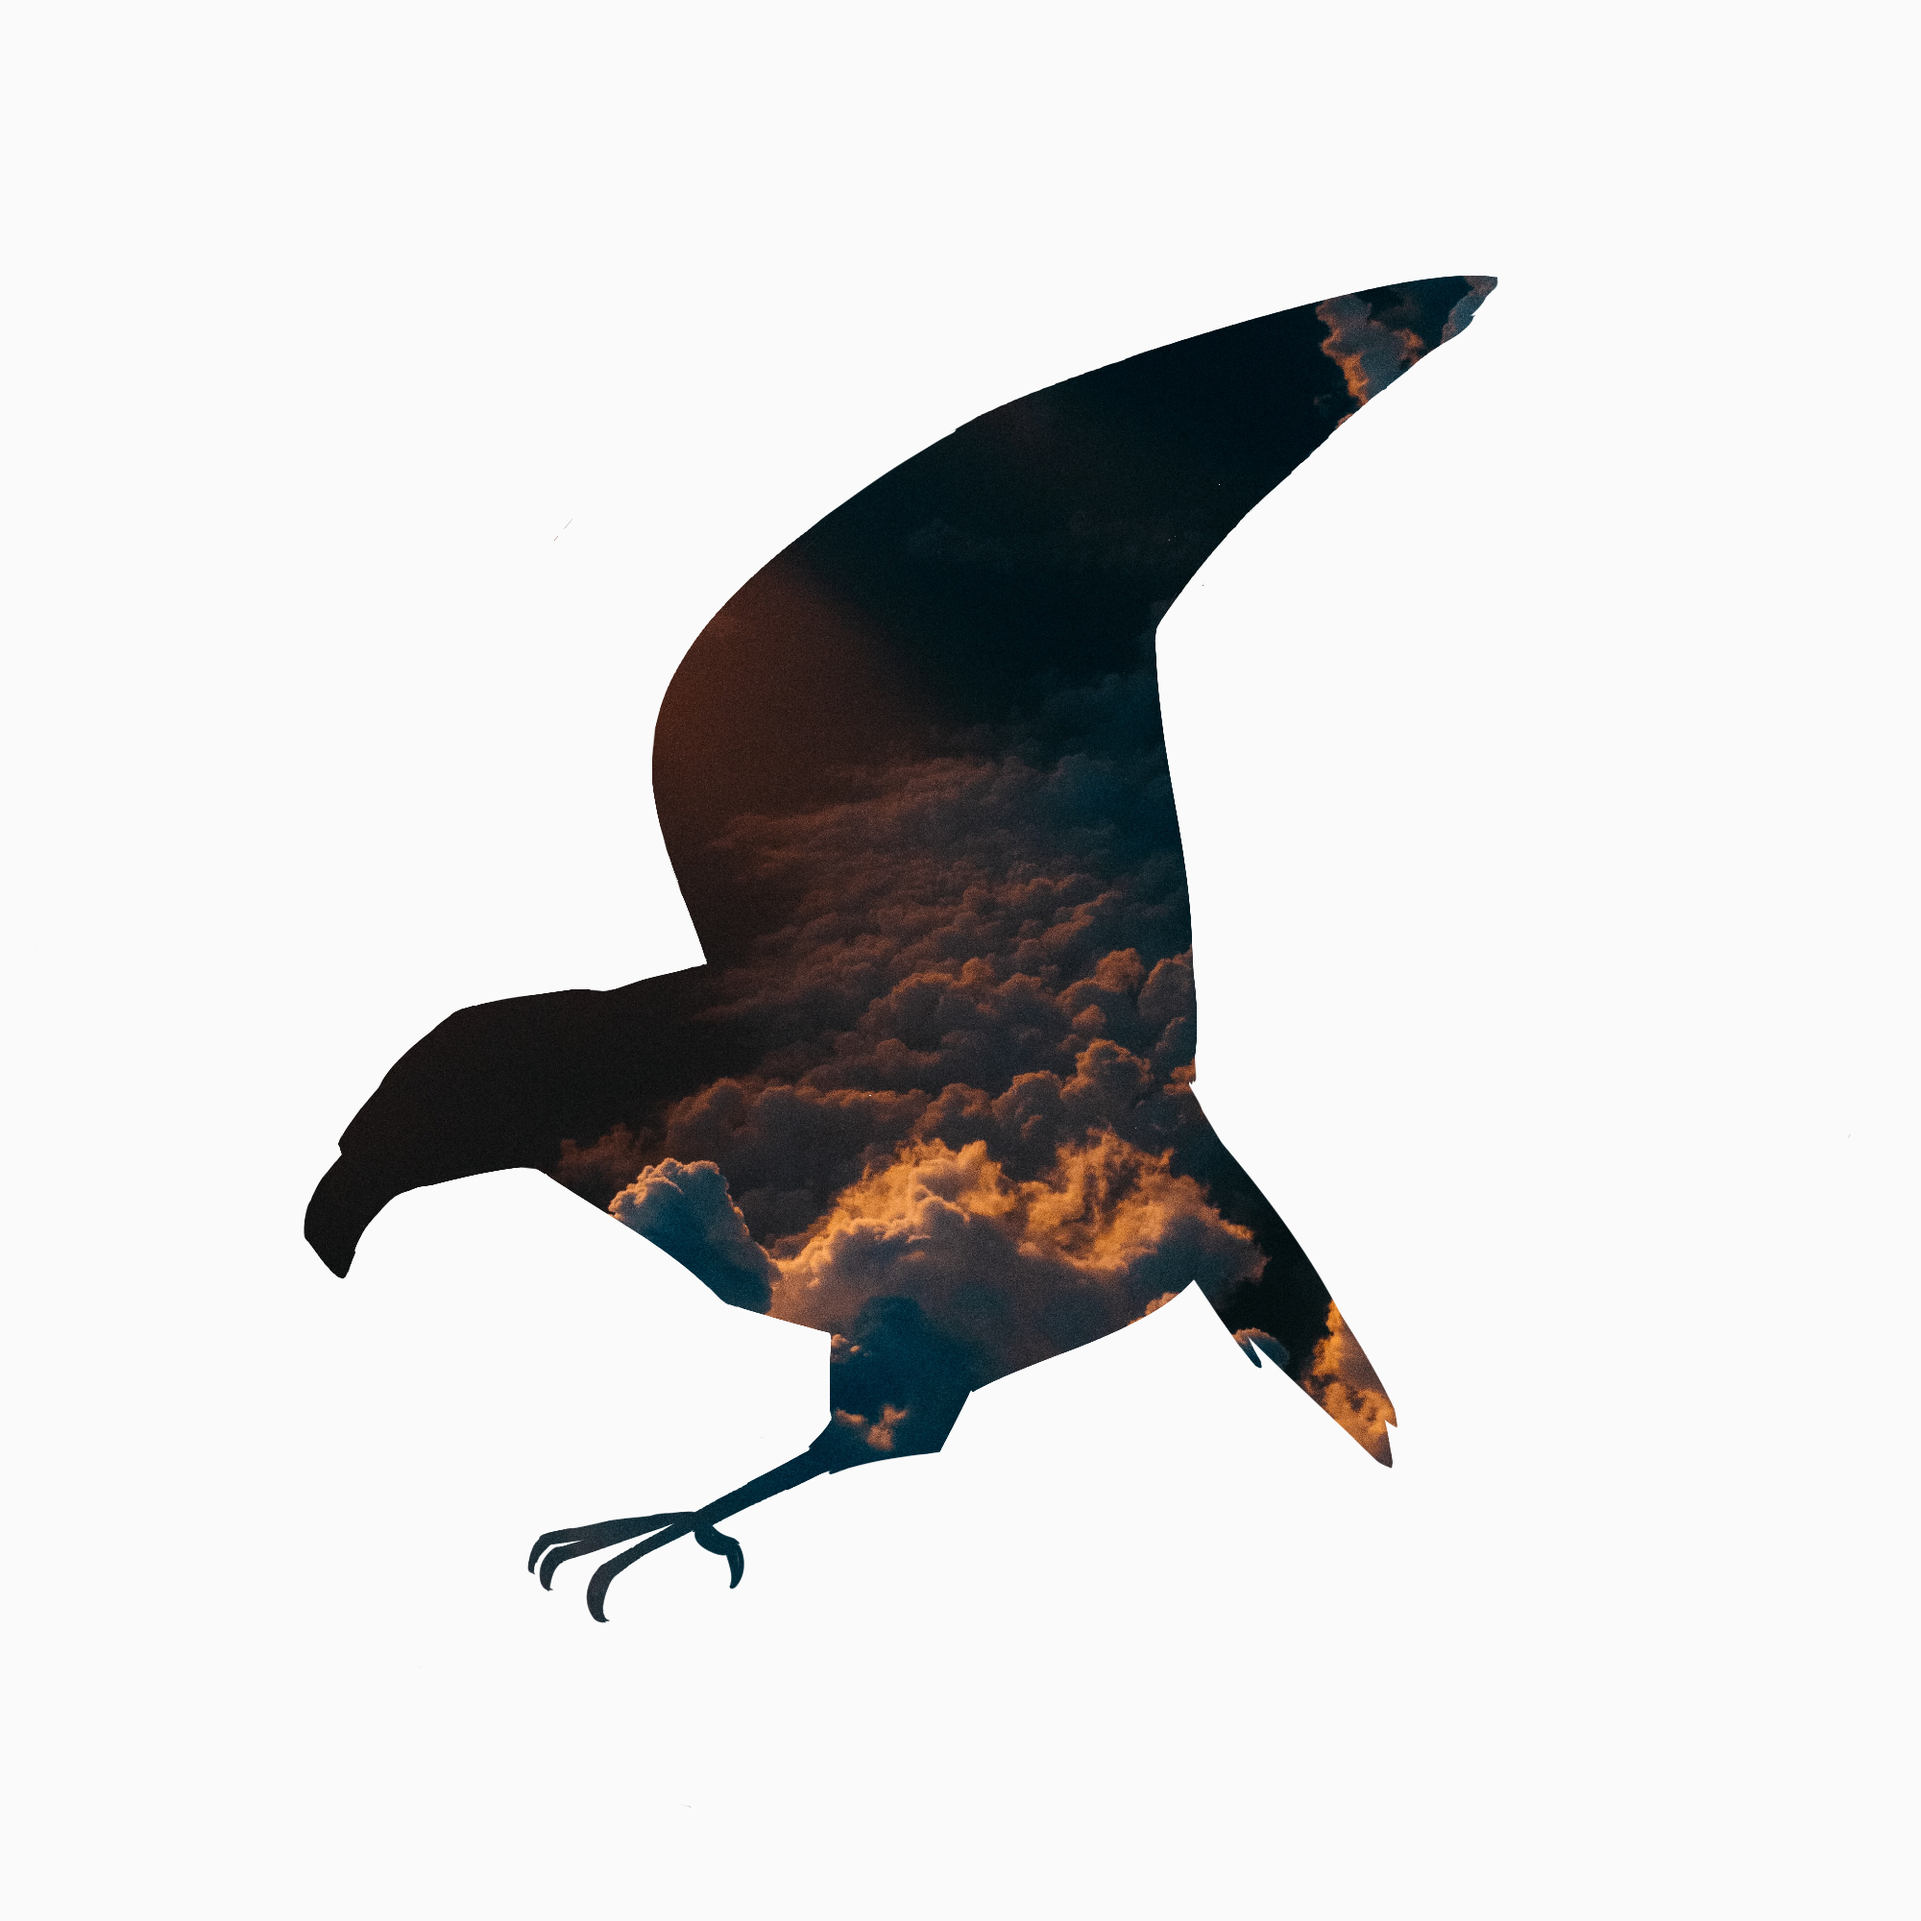
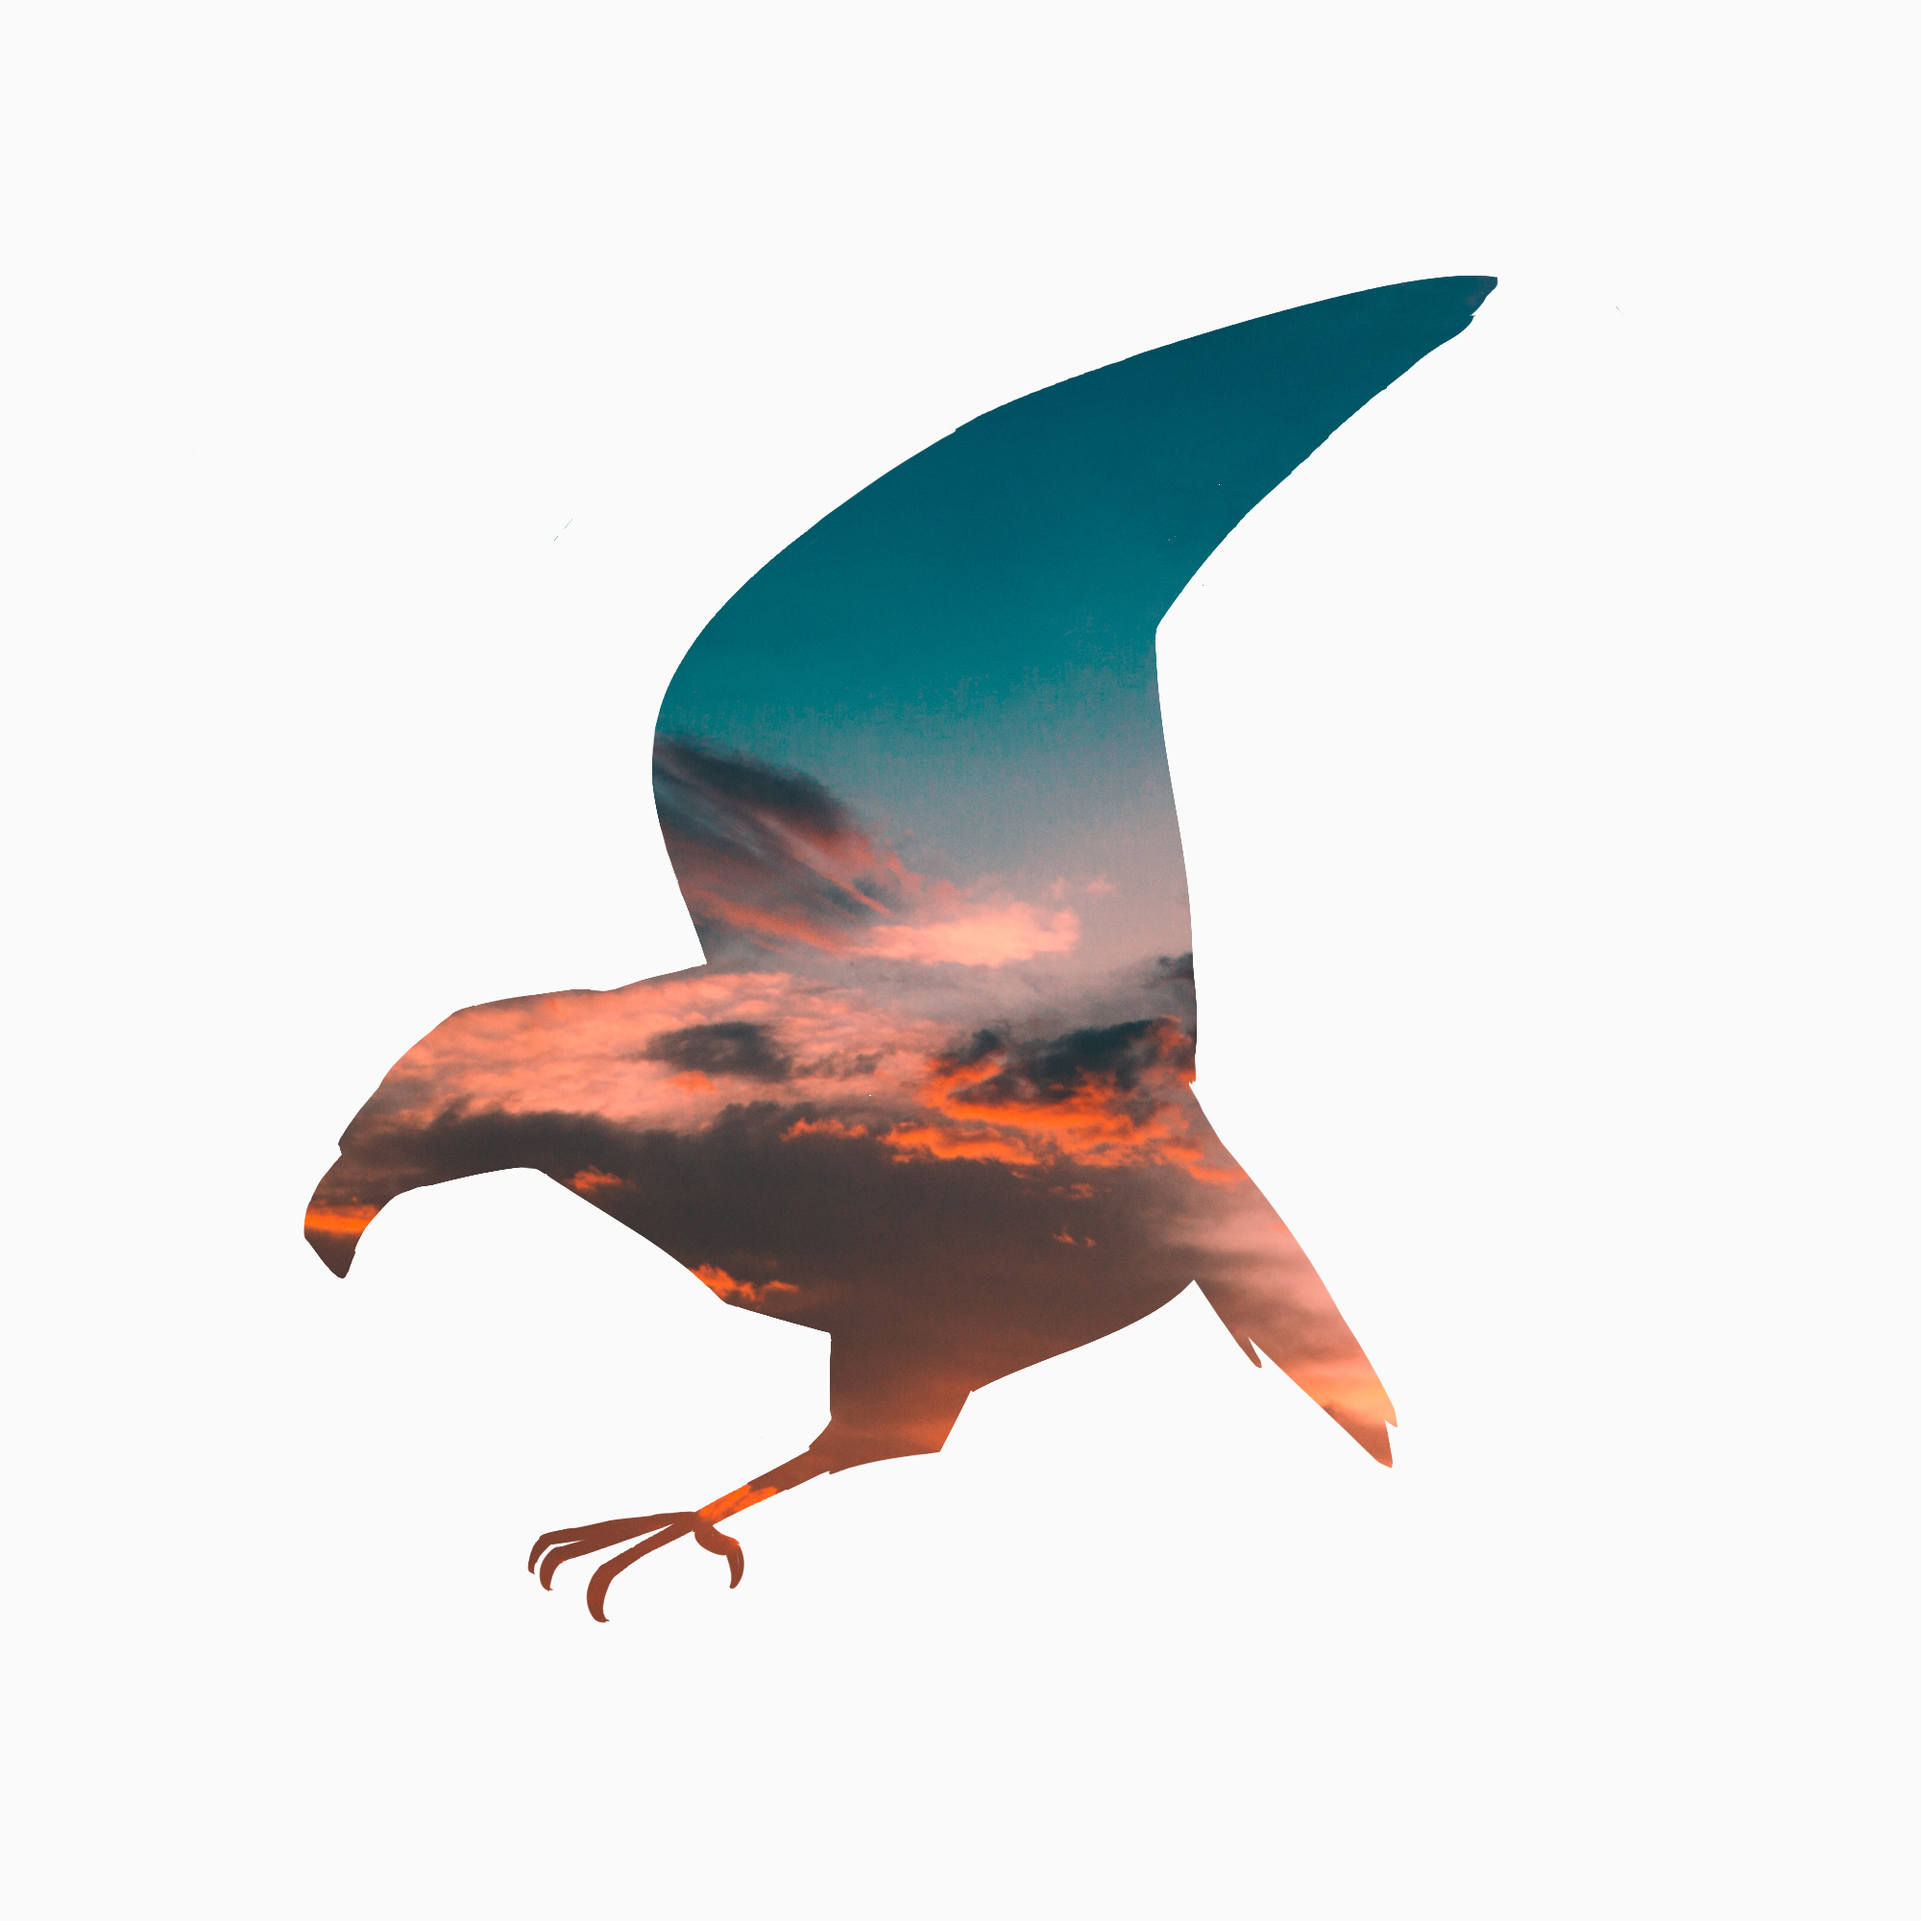
add all

Changed region(s): [[0.155, 0.124, 0.775, 0.837]]

diff --git a/src/components/Title.vue b/src/components/Title.vue
@@ -2,7 +2,7 @@
     <div class="title-board">
         <img class="img" src="../../assets/sea.jpg"/>
         <div class="text">
-            <img class="logo" src="../../assets/nighthawk.png">
+            <img class="logo" src="../../assets/night_nighthawk.png">
             <p class="name">tkr wtnb</p>
             <p>i'm mobile app developer</p>
         </div>
